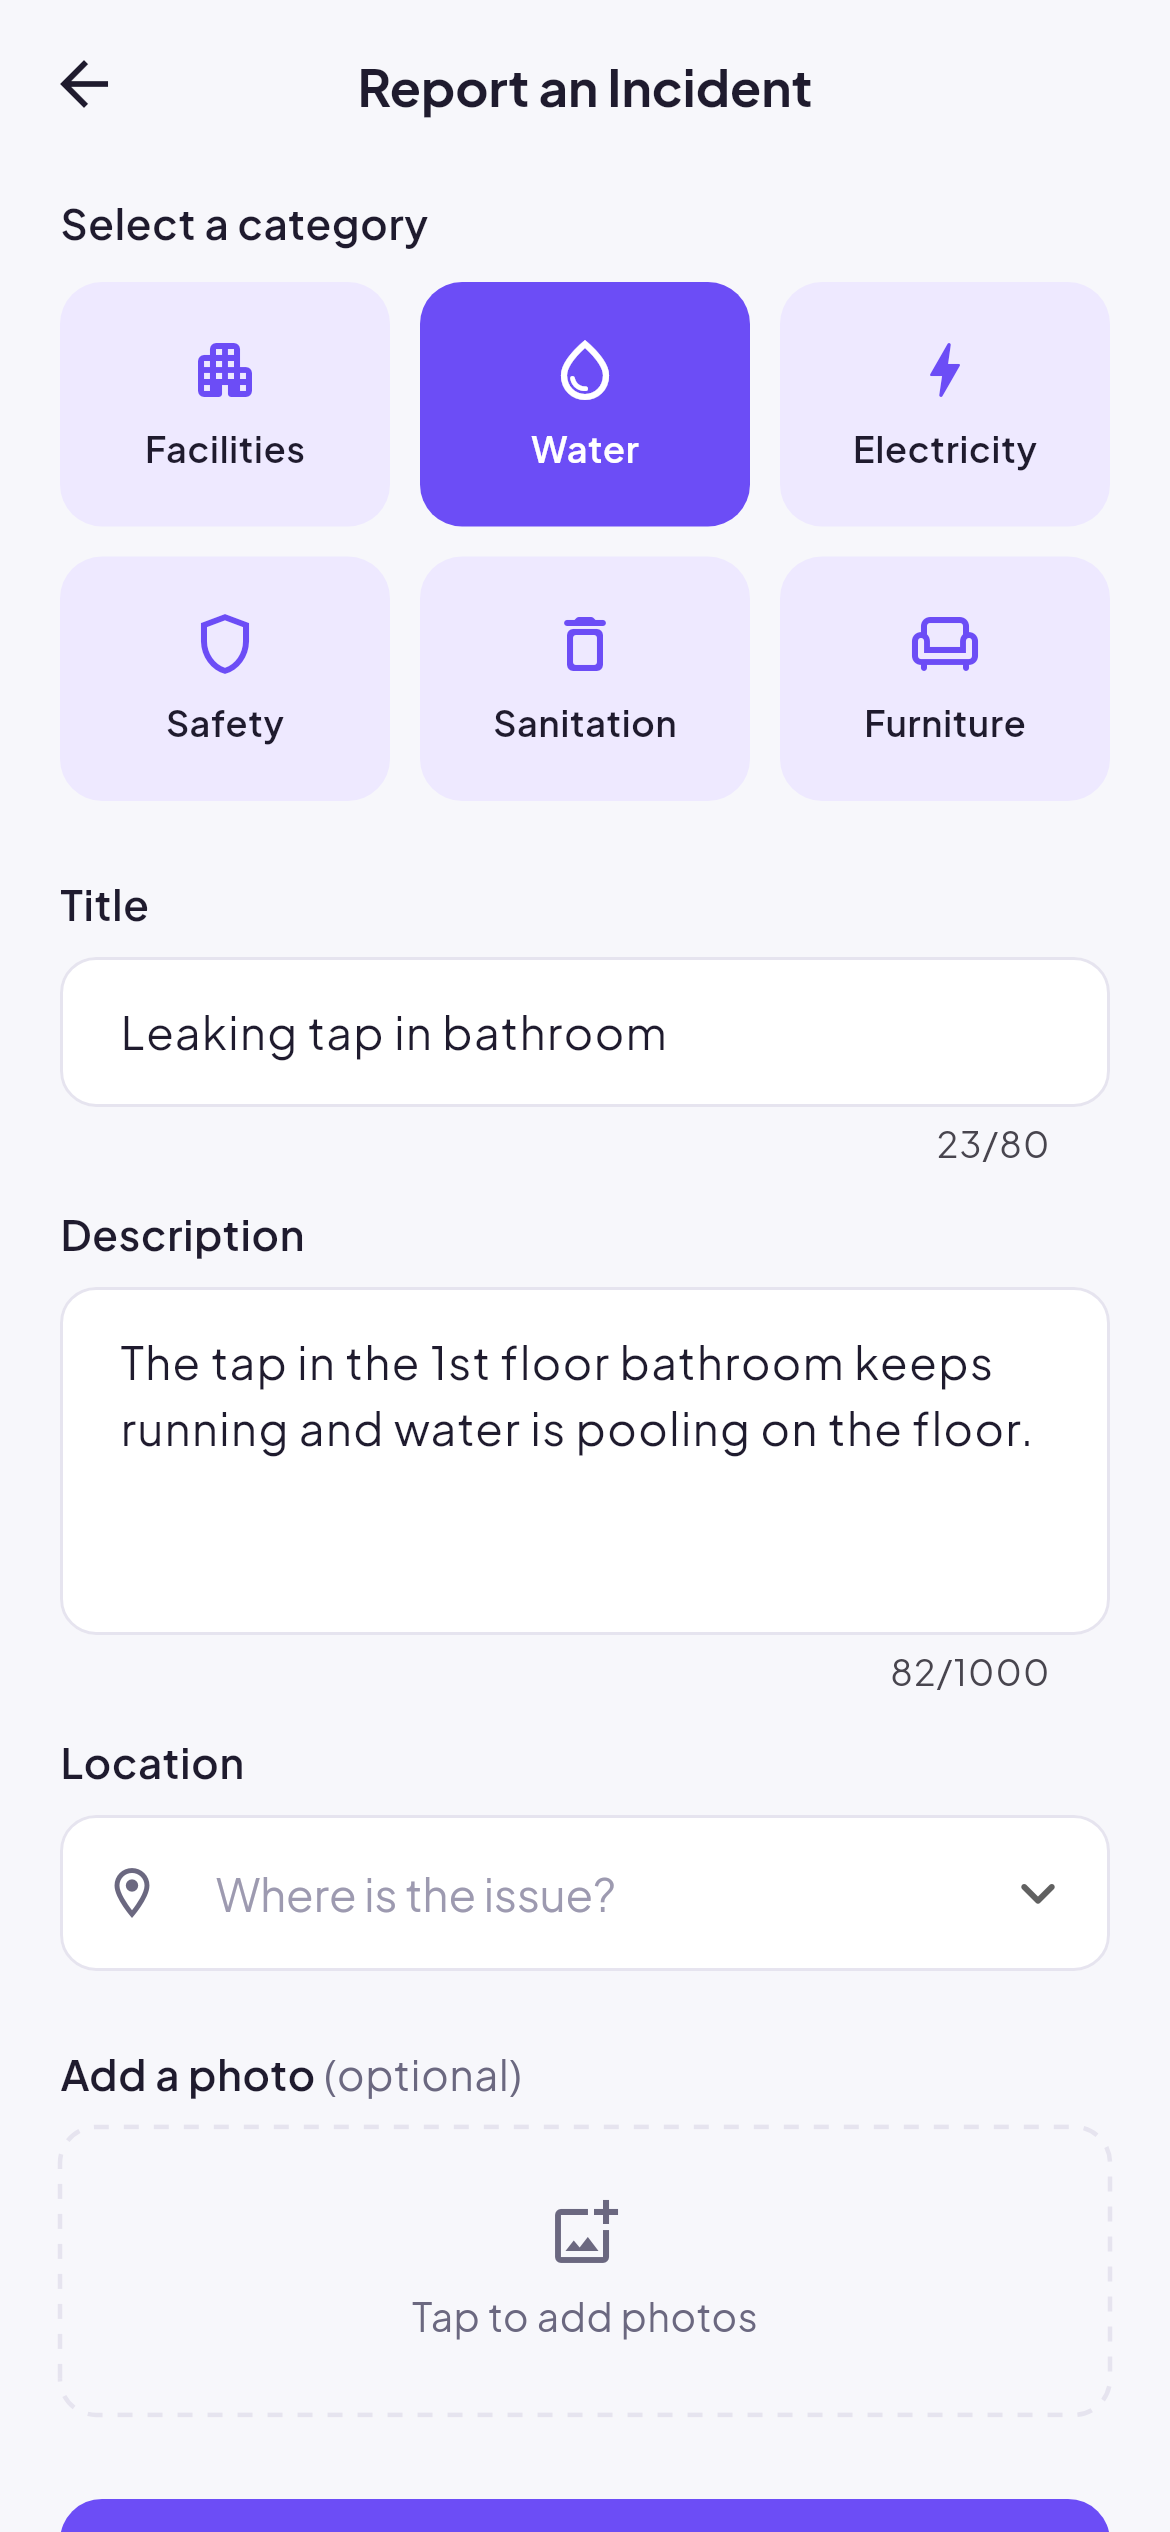
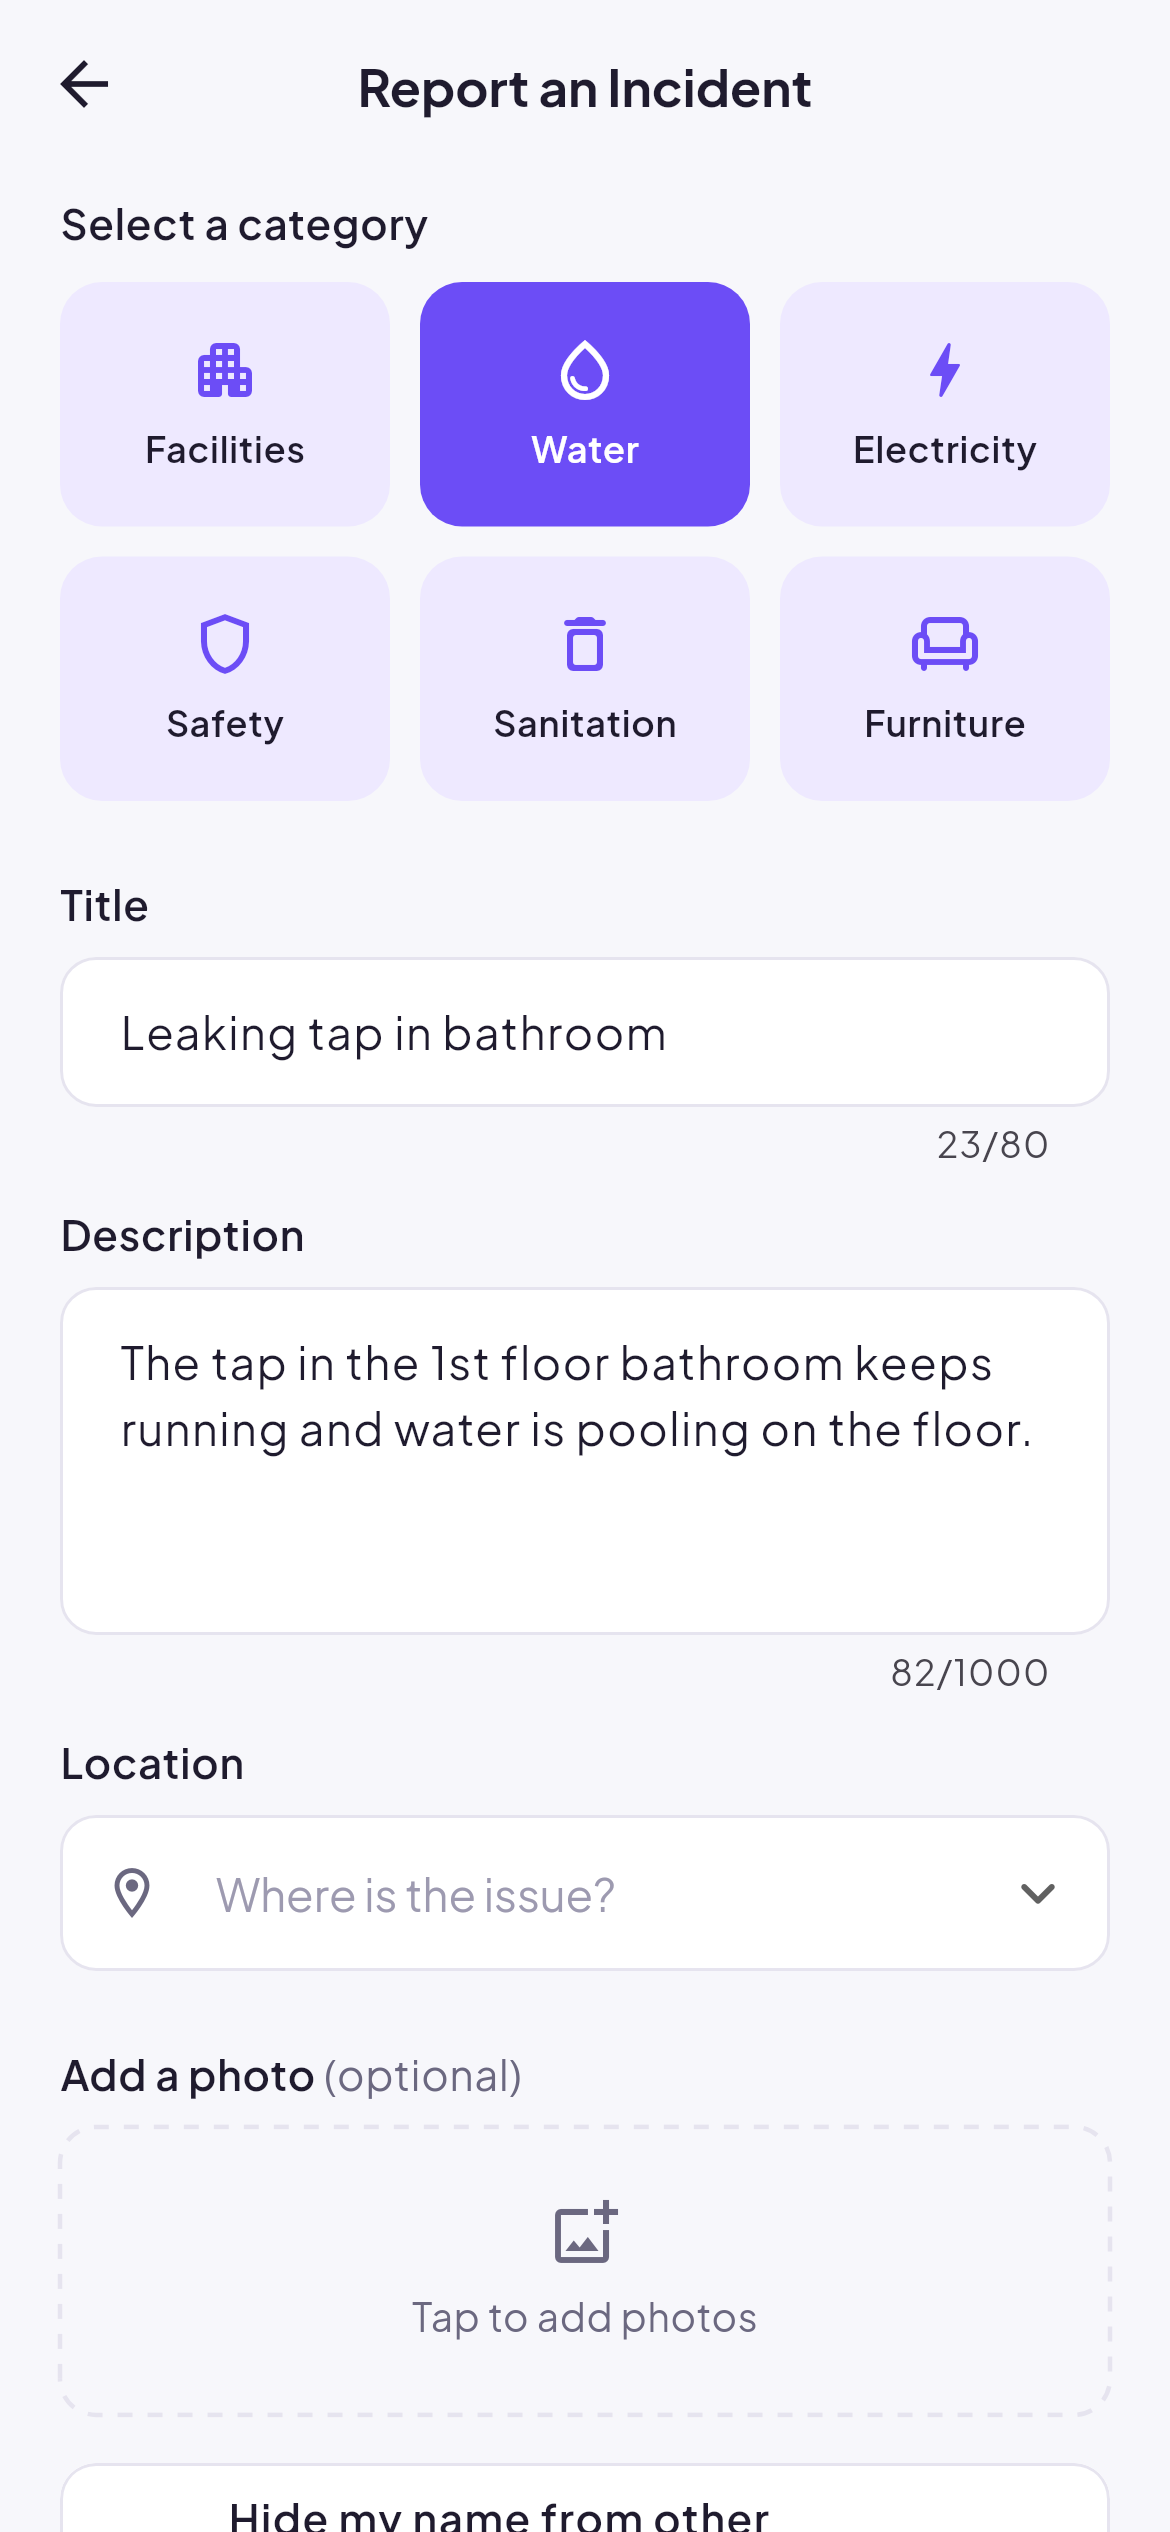
Update docs and screenshots for ALU sign-in and anonymous reports
Adds screenshots of the verify-email screen, the anonymous report option
and the staff view of an anonymous report. The README, architecture notes
and demo script now cover email verification, anonymous reporting and
showing the Firebase Console during the demo.

Changed region(s): [[0.0308, 0.9672, 0.9538, 1.0]]

diff --git a/tool/screenshots/screenshots_test.dart b/tool/screenshots/screenshots_test.dart
@@ -20,7 +20,7 @@ void main() {
   );
   final grace = MockUser(
     uid: 'grace',
-    email: 'grace@alustudent.com',
+    email: 'grace@alueducation.com',
     displayName: 'Grace Uwase',
   );
 
@@ -74,6 +74,7 @@ void main() {
       category: IncidentCategory.safety,
       location: 'Main Gate',
       hoursAgo: 50,
+      anonymous: true,
     );
     return b;
   }
@@ -167,5 +168,33 @@ void main() {
     await phone(tester, await demo(amina));
     await tester.tap(find.byIcon(Icons.notifications_none_rounded));
     await shot(tester, '09_updates_feed');
+  });
+
+  testWidgets('10 verify email', (tester) async {
+    final unverified = MockUser(
+      uid: 'amina',
+      email: 'amina@alustudent.com',
+      displayName: 'Amina Hassan',
+      isEmailVerified: false,
+    );
+    await phone(tester, await demo(unverified));
+    await shot(tester, '10_verify_email');
+  });
+
+  testWidgets('11 anonymous report option', (tester) async {
+    await phone(tester, await demo(amina));
+    await tester.tap(find.bySemanticsLabel('Report an incident'));
+    await tester.pumpAndSettle();
+    await tester.ensureVisible(find.text('Submit Report'));
+    await tester.pumpAndSettle();
+    await tester.tap(find.text('Hide my name from other students'));
+    await shot(tester, '11_report_anonymous');
+  });
+
+  testWidgets('12 staff view of an anonymous report', (tester) async {
+    await phone(tester, await demo(grace));
+    await tester.openTab('Reports');
+    await tester.tap(find.text('Main gate light not working'));
+    await shot(tester, '12_anonymous_staff_view');
   });
 }

diff --git a/docs/DEMO_SCRIPT.md b/docs/DEMO_SCRIPT.md
@@ -1,6 +1,6 @@
 # Demo video script (7–10 minutes)
 
-The brief asks the video to show authentication, submitting a report, browsing and filtering, and a staff member updating a status. This script covers all four in about 8½ minutes.
+The brief asks the video to show authentication, submitting a report, browsing and filtering, and a staff member updating a status. The rubric also asks you to show the Firebase Console records and to explain your design decisions. This script covers all of that in about 9½ minutes.
 
 ## Before recording
 
@@ -13,25 +13,30 @@ The brief asks the video to show authentication, submitting a report, browsing a
    - Student: `demo.amina@alustudent.com`
    - Student: `demo.brian@alustudent.com`
    - Staff: `demo.grace@alueducation.com`
-3. Have a photo of a campus problem ready on the phone or simulator (for example a broken chair or leaking tap).
-4. Start the app signed out.
+3. For the sign-up scene you need a real ALU inbox you can open on camera, because the app sends a real verification email. Use your own `@alustudent.com` address. If you've already signed up with it, delete that account under **Authentication → Users** in the Firebase Console first.
+4. Have a photo of a campus problem ready on the phone or simulator (for example a broken chair or leaking tap).
+5. Open the Firebase Console in a browser tab: **Authentication → Users** and **Firestore Database → incidents**.
+6. Start the app signed out.
 
 ## Script
 
 | Time | Scene | What to show and say |
 |---|---|---|
 | 0:00 | Intro | Name, course, and one sentence: "Campus Incidents lets students report campus problems and staff track them to resolution." Mention Flutter, Riverpod, Firebase Auth, Firestore and Supabase Storage. |
-| 0:30 | Sign up | Tap **Sign up**. Submit the empty form to show validation, then mismatched passwords. Create a new student account. Point out that everyone signs up as a student. |
-| 1:30 | Sign out and sign in | Sign out from Profile (confirm dialog). Sign in as Amina with a wrong password to show the error message, then the correct one. |
+| 0:30 | Sign up | Tap **Sign up**. Submit the empty form to show validation. Enter a Gmail address to show "Use your ALU email". Then sign up with your ALU email. Point out that everyone signs up as a student. |
+| 1:15 | Verify email | The app stops on **Verify your email**. Tap **I've Verified My Email** first to show it refuses. Open the email, tap the link, come back and tap the button again: the app opens. In the Firebase Console, show the new user under **Authentication → Users** and their profile under **Firestore → users**. Explain that the security rules also refuse unverified and non-ALU accounts, so skipping the screen in a modified app gains nothing. |
+| 2:00 | Sign out and sign in | Sign out from Profile (confirm dialog). Sign in as Amina with a wrong password to show the error message, then the correct one. |
 | 2:15 | Home | Greeting, the summary tiles (tap **In Progress** to show it opens the filtered list), recent reports. |
-| 3:00 | Submit a report | Tap the centre **Report** button. Tap **Submit Report** empty to show validation. Pick **Furniture**, enter a title and description, choose **Block C**, attach a photo from the gallery, submit. The app opens the new report: Submitted on the timeline, photo attached. |
+| 3:00 | Submit a report | Tap the centre **Report** button. Tap **Submit Report** empty to show validation. Pick **Furniture**, enter a title and description, choose **Block C**, attach a photo from the gallery, submit. The app opens the new report: Submitted on the timeline, photo attached. Show the new document in **Firestore → incidents** and explain its fields and the embedded `history`. |
+| 4:00 | Anonymous report | Open the form again and point out **Hide my name from other students**. Explain why: safety or harassment reports are easier to make when other students can't see your name, but staff still need to follow up. Open **Main gate light not working** (an anonymous demo report): it says "Reported anonymously". |
 | 4:15 | Browse and filter | Go to **Reports**. Search "light". Clear it. Tap **Submitted**, then **Electricity**. Switch between **All campus** and **My reports**. Show the empty state and **Clear filters**. |
 | 5:15 | Details | Open **Broken classroom projector**: header, timeline, staff note, description. Open a report with a photo and pinch to zoom. |
-| 5:45 | Staff sign in | Sign out, sign in as Grace (staff). Point out the Staff badge, "Campus Summary" and "Review Reports". |
+| 5:45 | Staff sign in | Sign out, sign in as Grace (staff). Point out the Staff badge, "Campus Summary" and "Review Reports". Open the anonymous gate report: staff see who filed it. |
 | 6:15 | Update status | Tap **Review Reports**. Open the report Amina just submitted. Tap **Mark as In Progress**, add a note ("Replacement chair ordered"), confirm. The timeline updates live. Then **Mark as Resolved** with a note. |
 | 7:15 | Student sees it | Sign back in as Amina. The bell shows an unread dot; open **Updates** to see both changes and notes. Open the report: timeline complete. |
-| 7:45 | Security | Briefly show `firestore.rules` and the rules tests passing (`npm test` in `test_rules`): students can't change status or make themselves staff. |
-| 8:15 | Wrap up | Recap the four workflows, mention the tests, and show the GitHub repository. |
+| 7:45 | Security | Briefly show `firestore.rules` and the rules tests passing (`npm test` in `test_rules`): only verified ALU accounts get in, students can't change status or make themselves staff, and anonymous reports can't carry the real name. |
+| 8:30 | Code tour | Show the folders (`core`, `data`, `features`, `shared`), one provider (`allIncidentsProvider`), one controller (`SubmitReportController`) and the redirect function in `app_router.dart`. Explain why Riverpod. |
+| 9:15 | Wrap up | Recap the four workflows, mention the tests, and show the GitHub repository. |
 
 ## Tips
 

diff --git a/docs/ARCHITECTURE.md b/docs/ARCHITECTURE.md
@@ -76,7 +76,10 @@ Riverpod was chosen over Provider, BLoC and Cubit for four reasons:
 stateDiagram-v2
   [*] --> Splash
   Splash --> Login: signed out
-  Splash --> Home: signed in and profile loaded
+  Splash --> VerifyEmail: email not verified or not ALU
+  VerifyEmail --> Splash: link opened
+  VerifyEmail --> Login: sign out
+  Splash --> Home: verified and profile loaded
   Login --> SignUp
   Login --> ForgotPassword
   Login --> Splash: sign in succeeds
@@ -108,7 +111,8 @@ erDiagram
     string location
     string status "submitted, inProgress, resolved"
     string reporterId FK
-    string reporterName "copied so lists need no extra reads"
+    string reporterName "copied so lists need no extra reads; Anonymous if hidden"
+    boolean anonymous "hide the reporter's name from other students"
     timestamp createdAt
     timestamp updatedAt
     string photoUrl "public Supabase URL or null"
@@ -120,6 +124,8 @@ erDiagram
 Each entry in `history` is `{status, changedAt, changedBy, changedByName, note}`. Embedding the history in the incident document means the details screen needs one read, and a status change is a single atomic update (`status`, `updatedAt` and `arrayUnion` on `history`).
 
 `reporterName` is denormalised on purpose. Students can't read other users' profiles, so storing the name on the report avoids an extra read and a looser rule.
+
+**Anonymous reports** store `"Anonymous"` in `reporterName` and in the first history entry instead of the real name. Firestore can't hide one field from some readers, so the name is simply never written to the report. Staff look it up from `users/{reporterId}`, which only they may read.
 
 **Indexes:** `incidents (reporterId ASC, createdAt DESC)` for "my reports". Listing all reports by `createdAt` uses Firestore's automatic single-field index.
 
@@ -153,8 +159,10 @@ sequenceDiagram
 
 | Action | Student | Staff | Enforced by |
 |---|---|---|---|
-| Sign up | yes (always as student) | via admin script | Firestore rule on `users` create |
-| Submit a report | yes | yes | Firestore rule: `reporterId == auth.uid`, real profile name, status `submitted`, server timestamps, photo from own folder |
+| Use the app at all | verified ALU email only | verified ALU email only | Every rule checks `email_verified` and an `@alustudent.com` or `@alueducation.com` address; the storage policy checks the same |
+| Sign up | yes (always as student, ALU email) | via admin script | Firestore rule on `users` create |
+| Submit a report | yes, optionally anonymous | yes | Firestore rule: `reporterId == auth.uid`, real profile name or `"Anonymous"`, status `submitted`, server timestamps, photo from own folder |
+| See who filed an anonymous report | own only | yes | Students can't read other profiles |
 | Browse and search all reports | yes | yes | Firestore rule: signed in |
 | Change a report's status | no | yes, forward only | Firestore rule: `isStaff()`, status rank increases, earlier history unchanged, exactly one new entry signed with the staff member's own name and the current time |
 | Edit a report's text | no | no | Firestore rule: only `status`, `updatedAt`, `history` may change |
@@ -176,7 +184,7 @@ The rules also protect data quality, so one bad write can't break the app for ev
 | Unit | `flutter_test` | Models (serialisation, defaults, malformed documents), validators, redirect logic, filters, time formatting |
 | Repository | `fake_cloud_firestore`, `firebase_auth_mocks` | Queries, ordering, status updates, error mapping, sign-up and profile-repair racing each other |
 | Widget and flow | `flutter_test` with provider overrides | Login, sign up, sign out, report form validation and submission, failed upload, search and filters, details, withdrawing, staff status updates |
-| Security rules | `@firebase/rules-unit-testing` on the Firestore emulator | Every allow and deny path in `firestore.rules`, including backdating, fake reporter names, reused photos and rewritten history (27 tests) |
+| Security rules | `@firebase/rules-unit-testing` on the Firestore emulator | Every allow and deny path in `firestore.rules`, including unverified and non-ALU accounts, anonymous reports, backdating, fake reporter names, reused photos and rewritten history (36 tests) |
 | Live smoke test | Firebase JS SDK against the real project | Deployed rules accept the app's writes and reject role escalation, backdating and impersonation |
 | Code review | Independent review pass | Found the unvalidated timestamps and the sign-up race, both fixed with tests |
 | Storage policies | REST calls with a real Firebase token | Upload to own folder works; other folders and signed-out uploads are rejected |

diff --git a/README.md b/README.md
@@ -10,15 +10,20 @@ A Flutter app for reporting campus issues: broken facilities, water shortages, p
 |---|---|---|---|
 | ![Details](docs/screenshots/05_incident_details.png) | ![Profile](docs/screenshots/06_profile.png) | ![Staff home](docs/screenshots/07_home_staff.png) | ![Staff update](docs/screenshots/08_staff_update_status.png) |
 
+| Updates | Verify email | Anonymous option | Staff view of an anonymous report |
+|---|---|---|---|
+| ![Updates](docs/screenshots/09_updates_feed.png) | ![Verify email](docs/screenshots/10_verify_email.png) | ![Anonymous option](docs/screenshots/11_report_anonymous.png) | ![Anonymous, staff view](docs/screenshots/12_anonymous_staff_view.png) |
+
 ## Features
 
 **Students**
-- Sign up, sign in, reset a forgotten password
+- Sign up with an ALU email (`@alustudent.com` or `@alueducation.com`), verify it from the link sent by email, sign in, reset a forgotten password
 - Report an issue: category, title, description, campus location and an optional photo from the camera or gallery
 - Browse every report on campus, search it, and filter by status, category or "my reports"
 - Follow each report on a status timeline (Submitted → In Progress → Resolved), with notes from staff
 - See updates to their reports in the Updates feed (bell icon on Home)
 - Withdraw a report while it's still Submitted
+- Hide their name from other students on a report (staff can still see who filed it)
 
 **Staff**
 - Campus-wide summary and a shortcut to every report still waiting for review
@@ -90,7 +95,9 @@ node make_staff.mjs someone@example.com   # grant the staff role
 node make_staff.mjs someone@example.com --revoke
 ```
 
-Everyone who signs up in the app is a student. The Firestore rules stop users from changing their own role, so staff can only be created with `make_staff.mjs`.
+Everyone who signs up in the app is a student. The Firestore rules stop users from changing their own role, so staff can only be created with `make_staff.mjs`. A staff member still needs a verified ALU email address: the rules and storage policies admit only verified `@alustudent.com` and `@alueducation.com` accounts.
+
+After changing `supabase/storage.sql`, run it in the Supabase SQL editor.
 
 Deploy the Firestore rules and indexes:
 

diff --git a/docs/REPORT_OUTLINE.md b/docs/REPORT_OUTLINE.md
@@ -58,7 +58,7 @@ A section-by-section outline for the technical report, matching what the brief a
 
 ## 9. Testing strategy (1 page)
 - Testing pyramid table: section 7 of `docs/ARCHITECTURE.md`.
-- Numbers: 64 Dart unit and widget tests, 27 security-rule tests (check the final `flutter test` and `npm test` output before submitting).
+- Numbers: 78 Dart unit and widget tests, 36 security-rule tests (check the final `flutter test` and `npm test` output before submitting).
 - Examples worth quoting: "a student cannot promote themselves to staff", "a failed upload keeps the form and shows the error".
 - Manual testing on a device.
 
